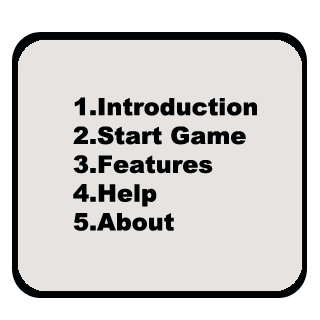
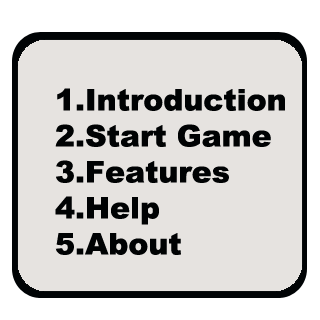
1.Fix player facing direction problem when moving along way points 2.Make menu character larger

Changed region(s): [[0.1562, 0.25, 0.9062, 0.8125]]

diff --git a/Project_Origin/Project_Origin/Player.cs b/Project_Origin/Project_Origin/Player.cs
@@ -137,6 +137,29 @@ namespace Project_Origin
             base.Update(gameTime);
         }
 
+        public float CalcPlayerRotationFromMovingDirection(Vector3 movingDirection)
+        {
+            float zRotation = 0.0f;
+            if (movingDirection.X > 0 && movingDirection.Y > 0)
+            {
+                zRotation = 2 * MathHelper.Pi - (float)Math.Atan((movingDirection.X / movingDirection.Y));
+            }
+            else if(movingDirection.X > 0 && movingDirection.Y < 0)
+            {
+                zRotation = MathHelper.Pi - (float)Math.Atan((movingDirection.X / movingDirection.Y));
+            }
+            else if (movingDirection.X < 0 && movingDirection.Y < 0)
+            {
+                zRotation = MathHelper.Pi + (float)Math.Atan((-movingDirection.X / movingDirection.Y));
+            }
+            else if (movingDirection.X < 0 && movingDirection.Y > 0)
+            {
+                zRotation = (float)Math.Atan((-movingDirection.X / movingDirection.Y));
+            }
+
+            return zRotation;
+        }
+
         public void UpdatePlayerPosition(GameTime gameTime)
         {
             if (playerMode == PlayerMode.Moving)
@@ -147,7 +170,8 @@ namespace Project_Origin
                 float d = movingDirection.Length();
                 movingDirection.Normalize();
                 movingCurrentDistance += (float)gameTime.ElapsedGameTime.Milliseconds * movingSpeed;
-                playerGreenZRoatation = (float)Math.Atan((movingDirection.X / movingDirection.Y));
+                playerGreenZRoatation = CalcPlayerRotationFromMovingDirection(movingDirection);
+                
                 //Destination = Source + d * Direction
                 if (movingCurrentDistance < d)
                 {
@@ -180,7 +204,7 @@ namespace Project_Origin
             scale = Matrix.CreateScale(0.5f, 0.5f, 0.5f);
             Vector3 position = playerGreenPosition;
             translation = Matrix.CreateTranslation(position);//Matrix.CreateTranslation(20.0f, -20.0f, 110.0f);
-            rotationZ = Matrix.CreateRotationZ(-playerGreenZRoatation);
+            rotationZ = Matrix.CreateRotationZ(playerGreenZRoatation);
             world = scale * rotationZ * translation;//* ;
             foreach (ModelMesh mesh in playerGreen.Meshes)
             {
